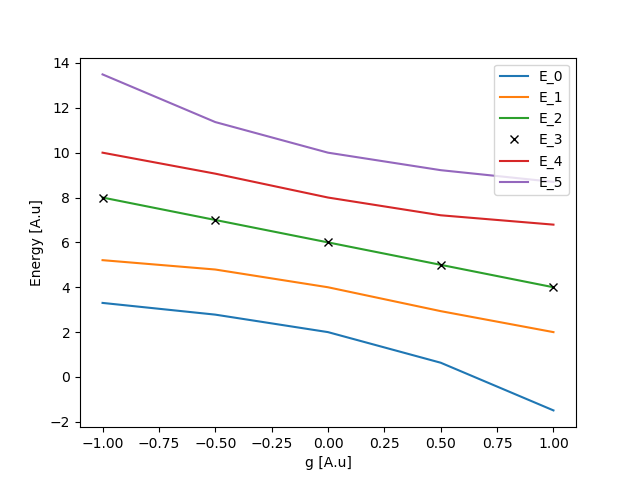
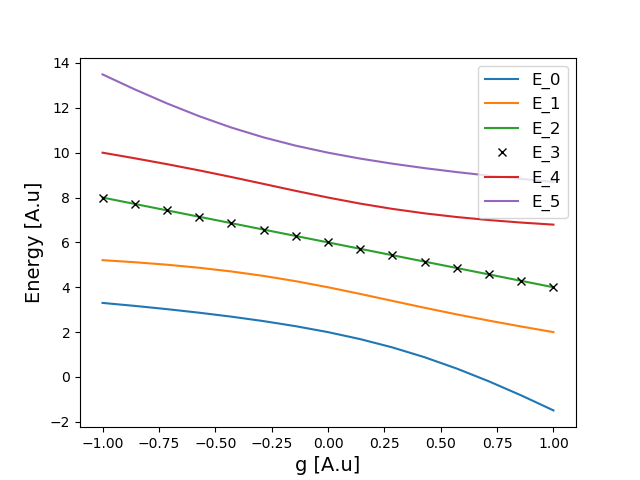
prettier plot

diff --git a/report/report_gr10_nuclear_talent.tex b/report/report_gr10_nuclear_talent.tex
@@ -214,9 +214,6 @@ where
 \ket{\Phi_5} &= \hat P_4^+ \hat P_3^+ \ket{0}. \\
 \end{align*}
 
-(also include a figure with the states drawn?)
-
-
 Given the above Slater determinants  we can now compute the matrix elements $\bra{\Phi_i} \hat H \ket{\Phi_j}$ using the Hamiltonian of Eq.~\eqref{eq:H_0}. The one-body operator acts only on the diagonal and results in terms proportional with $(p − 1)$. The interaction will excite or deexcite a pair of particles from level $q$ to level $p$. Using this it is easy to see that the Hamilotnian matrix becomes: (REWRITE THIS PARAGRAPH,  ALL COPY)
 
 \begin{equation}

diff --git a/project_code/analytic_eigval_g.py b/project_code/analytic_eigval_g.py
@@ -3,7 +3,7 @@ import sys
 import matplotlib.pyplot as plt
 
 
-g_list = np.linspace(-1,1,5)
+g_list = np.linspace(-1,1,15)
 N = 6
 E = np.zeros(len(g_list))
 
@@ -33,13 +33,12 @@ for j in range(6):
         plt.plot(g_list, E)
 
 
-plt.xlabel('g [A.u]')
-plt.ylabel('Energy [A.u]')
-plt.legend(['E_0', 'E_1', 'E_2', 'E_3', 'E_4', 'E_5'])
-#plt.title('The energy levels as a function of g')
+plt.xlabel('g [A.u]', fontsize=14)
+plt.ylabel('Energy [A.u]', fontsize=14)
+plt.legend(['E_0', 'E_1', 'E_2', 'E_3', 'E_4', 'E_5'], fontsize=12)
 
 plt.savefig('figures/eigval_vs_g.png')
-#plt.show()
+plt.show()
 
 
 
